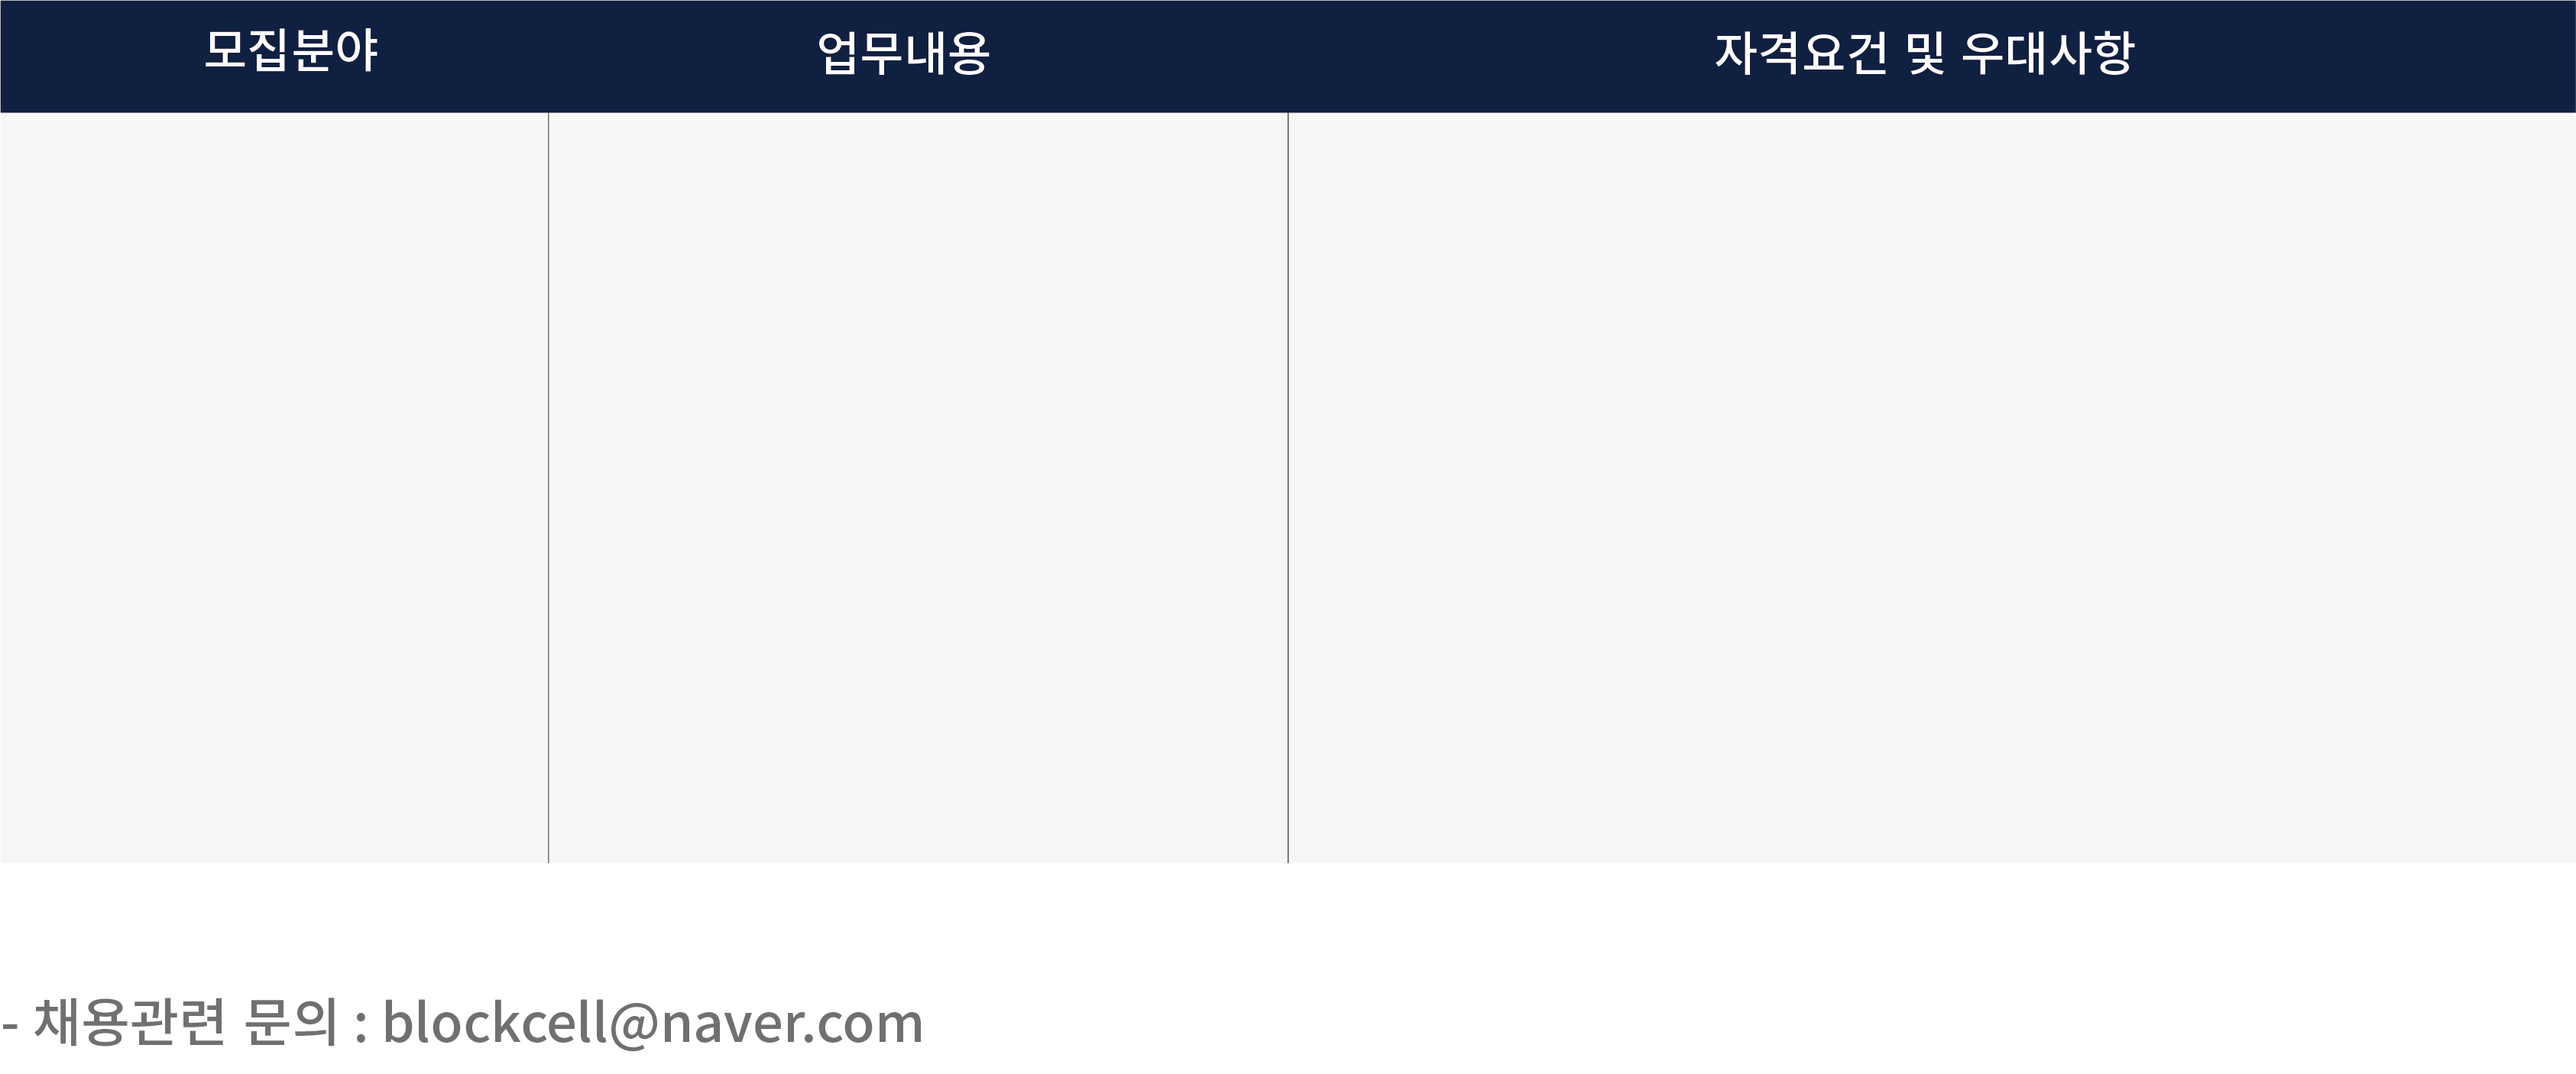
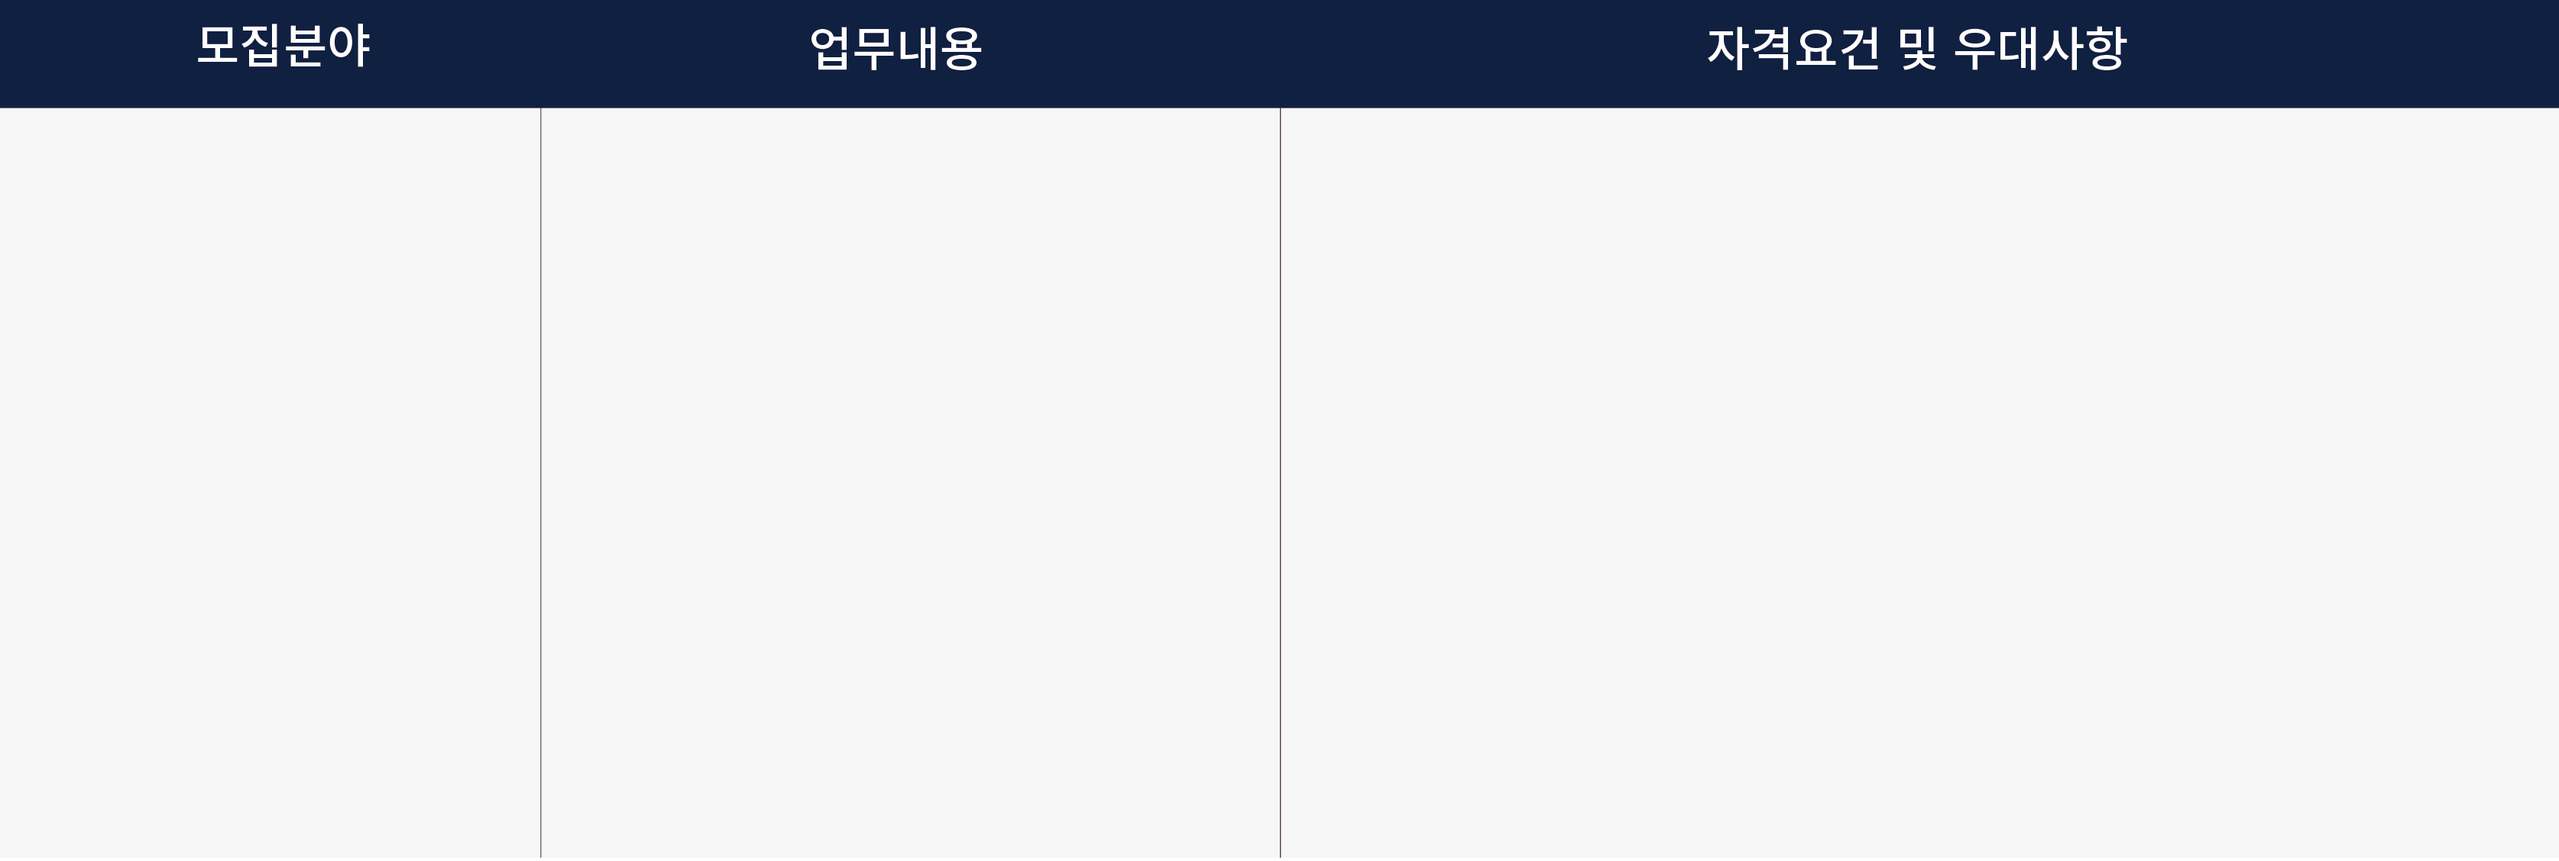
changes....

Changed region(s): [[0.0, 0.031, 1.0, 0.1241], [0.0, 0.9309, 0.3726, 0.9929]]

diff --git a/src/Components/RecruitComponents/Contents/Contents.js b/src/Components/RecruitComponents/Contents/Contents.js
@@ -2,8 +2,19 @@ import React from "react";
 import styles from "./styles.module.scss";
 import classNames from "classnames/bind";
 import Molding from "Components/Molding";
+import styled from "styled-components";
+import Colors from "../../../variables/Colors";
+import Sizes from "../../../variables/Sizes";
+import Weights from "../../../variables/Weights";
 
 const cx = classNames.bind(styles);
+
+const Text = styled.div`
+  color: ${Colors.greyFontColor};
+  font-size: ${Sizes.middleFontsize};
+  font-weight: ${Weights.middleBold};
+  margin-top: 30px;
+`;
 
 const Contents = () => {
   return (
@@ -25,9 +36,10 @@ const Contents = () => {
           width={"100%"}
           src={require("../../../media/images/recruit/recruitcontent.png")}
         />
+        <Text>- 채용관련 문의 : kovitech@naver.com</Text>
       </div>
       <div className={cx("only-mobild")}>
-        <span>더 나은 화면을 준비중입니다!</span>
+        <Text>- 채용관련 문의 : kovitech@naver.com</Text>
       </div>
     </div>
   );

diff --git a/src/Components/LoginComponents/LoginForm/presenter.js b/src/Components/LoginComponents/LoginForm/presenter.js
@@ -13,7 +13,7 @@ const LoginFormPresenter = ({
   return (
     <div className={cx("login-form")}>
       <div className={cx("title")}>
-        <span>BLOCK CELL</span>
+        <span>KOVITECH</span>
       </div>
       <div className={cx("input-container")}>
         <input

diff --git a/src/Components/NewAccountComponents/LoginForm/presenter.js b/src/Components/NewAccountComponents/LoginForm/presenter.js
@@ -18,7 +18,7 @@ const LoginFormPresenter = ({
   return (
     <div className={cx("login-form")}>
       <div className={cx("title")}>
-        <span>BLOCK CELL</span>
+        <span>KOVITECH</span>
       </div>
       <div className={cx("input-container")}>
         <input

diff --git a/src/Components/NavVar2/NavVar2.js b/src/Components/NavVar2/NavVar2.js
@@ -23,7 +23,7 @@ const NavVar2 = ({
           >
             <img
               alt={"blockcell-logo"}
-              width={"60%"}
+              width={"80%"}
               src={require("../../media/images/navvar/blockcelllogo.png")}
             />
           </Link>

diff --git a/src/variables/Colors.js b/src/variables/Colors.js
@@ -1,0 +1,7 @@
+const GREY_FONTCOLOR = "#7f8c8d";
+
+const Colors = {
+  greyFontColor: GREY_FONTCOLOR
+};
+
+export default Colors;

diff --git a/src/variables/Sizes.js b/src/variables/Sizes.js
@@ -1,0 +1,7 @@
+const MIDDLE_FONTSIZE = "18px";
+
+const Sizes = {
+  middleFontsize: MIDDLE_FONTSIZE
+};
+
+export default Sizes;

diff --git a/src/variables/Weights.js b/src/variables/Weights.js
@@ -1,0 +1,7 @@
+const MIDDLE_BOLD = 700;
+
+const Weights = {
+  middleBold: MIDDLE_BOLD
+};
+
+export default Weights;
